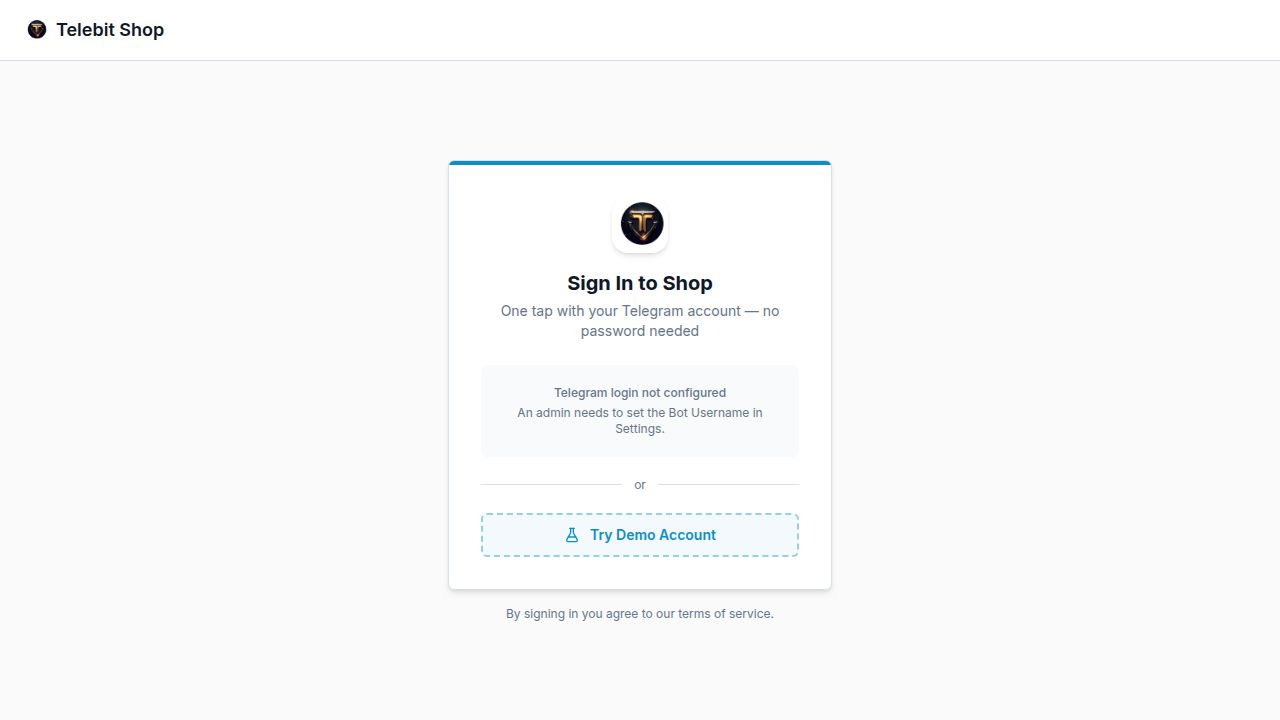
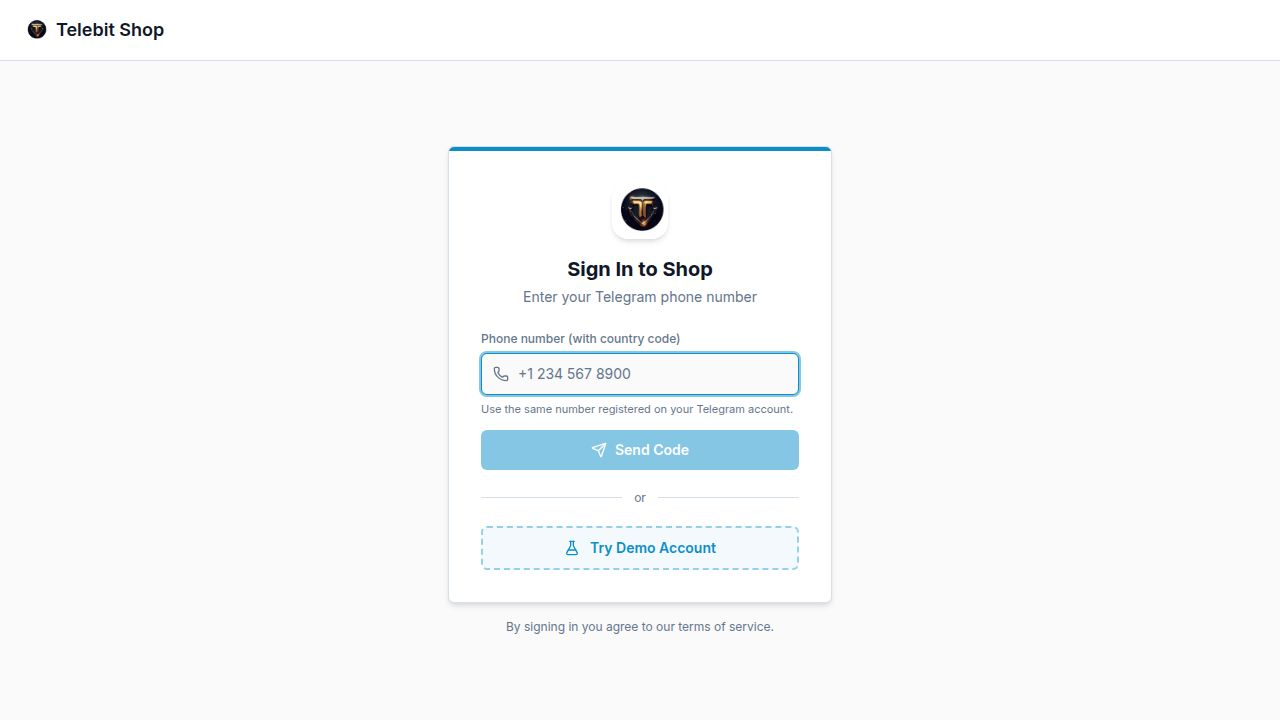
Enable sequential pool unlocking and update pool display
Implement backend logic to automatically unlock the next NFT pool upon completion of the current one, modify the API to list all pools, and update the frontend to visually indicate locked pool states.

Replit-Commit-Author: Agent
Replit-Commit-Session-Id: 859fa052-89b7-4801-a9a4-e2dcf02e4c4b
Replit-Commit-Checkpoint-Type: full_checkpoint
Replit-Commit-Event-Id: e7c8e063-a2ae-4fd7-8222-75e2f2f0d70a
Replit-Commit-Screenshot-Url: https://storage.googleapis.com/screenshot-production-us-central1/7f81c9e8-18eb-4d8d-b424-c342409516a9/859fa052-89b7-4801-a9a4-e2dcf02e4c4b/9lccCrN
Replit-Helium-Checkpoint-Created: true

Changed region(s): [[0.375, 0.3667, 0.625, 0.6722], [0.375, 0.7028, 0.6562, 0.8861], [0.3438, 0.1833, 0.6562, 0.3361]]

diff --git a/artifacts/shop/src/pages/nft-pools.tsx b/artifacts/shop/src/pages/nft-pools.tsx
@@ -68,34 +68,48 @@ function PoolCard({ pool, onBid }: { pool: NftPoolWithNft; onBid: (p: NftPoolWit
   const poolAmount = parseFloat(pool.poolAmount);
   const poolLimit = parseFloat(pool.poolLimit);
   const pct = poolSize > 0 ? Math.min(100, (poolAmount / poolSize) * 100) : 0;
-  const isFull = poolLimit <= 0;
+  const isLocked = pool.status === "inactive";
+  const isFull = !isLocked && (pool.status === "completed" || poolLimit <= 0);
   const t = getTheme(pool.level);
 
   return (
     <div className={`rounded-2xl border bg-white overflow-hidden transition-all duration-200 ${
-      isFull
-        ? "border-border opacity-60"
-        : `border-border hover:border-primary/30 shadow-sm hover:shadow-md`
+      isLocked
+        ? "border-dashed border-border/60 opacity-50"
+        : isFull
+          ? "border-border opacity-60"
+          : `border-border hover:border-primary/30 shadow-sm hover:shadow-md`
     }`}>
-      {!isFull && <div className={`h-1 w-full bg-gradient-to-r ${t.bar}`} />}
+      {!isFull && !isLocked && <div className={`h-1 w-full bg-gradient-to-r ${t.bar}`} />}
       <div className="p-5">
         {/* Header */}
         <div className="flex items-start justify-between mb-4">
           <div className="flex items-center gap-3">
-            <div className={`w-10 h-10 rounded-xl bg-gradient-to-br ${t.bar} flex items-center justify-center shadow-sm`}>
-              <span className="text-white font-black text-sm">L{pool.level}</span>
+            <div className={`w-10 h-10 rounded-xl flex items-center justify-center shadow-sm ${
+              isLocked ? "bg-muted" : `bg-gradient-to-br ${t.bar}`
+            }`}>
+              {isLocked
+                ? <Lock className="h-4 w-4 text-muted-foreground" />
+                : <span className="text-white font-black text-sm">L{pool.level}</span>
+              }
             </div>
             <div>
-              <p className={`font-bold text-base leading-tight ${isFull ? "text-muted-foreground" : ""}`}>
-                {pool.nft.title}
+              <p className={`font-bold text-base leading-tight ${isLocked || isFull ? "text-muted-foreground" : ""}`}>
+                {isLocked ? `Level ${pool.level} Pool` : pool.nft.title}
               </p>
-              <p className="text-xs text-muted-foreground mt-0.5">Level {pool.level} Pool</p>
+              <p className="text-xs text-muted-foreground mt-0.5">
+                {isLocked ? "Unlocks when previous pool fills" : `Level ${pool.level} Pool`}
+              </p>
             </div>
           </div>
           <span className={`text-[10px] font-semibold px-2.5 py-1 rounded-full border ${
-            isFull ? "bg-muted text-muted-foreground border-border" : t.badge
+            isLocked
+              ? "bg-muted/60 text-muted-foreground border-border"
+              : isFull
+                ? "bg-muted text-muted-foreground border-border"
+                : t.badge
           }`}>
-            {isFull ? "● Closed" : "● Open"}
+            {isLocked ? "🔒 Locked" : isFull ? "● Closed" : "● Open"}
           </span>
         </div>
 
@@ -103,12 +117,14 @@ function PoolCard({ pool, onBid }: { pool: NftPoolWithNft; onBid: (p: NftPoolWit
         <div className="mb-4">
           <div className="flex justify-between items-center mb-2">
             <span className="text-[11px] text-muted-foreground font-medium">Pool filled</span>
-            <span className="text-[11px] font-bold tabular-nums">{pct.toFixed(1)}%</span>
+            <span className="text-[11px] font-bold tabular-nums">{isLocked ? "—" : `${pct.toFixed(1)}%`}</span>
           </div>
           <div className="h-2 bg-muted/60 rounded-full overflow-hidden">
             <div
-              className={`h-full rounded-full bg-gradient-to-r transition-all duration-700 ${isFull ? "from-muted-foreground to-muted-foreground" : t.bar}`}
-              style={{ width: `${pct}%` }}
+              className={`h-full rounded-full bg-gradient-to-r transition-all duration-700 ${
+                isLocked ? "" : isFull ? "from-muted-foreground to-muted-foreground" : t.bar
+              }`}
+              style={{ width: isLocked ? "0%" : `${pct}%` }}
             />
           </div>
         </div>
@@ -125,15 +141,19 @@ function PoolCard({ pool, onBid }: { pool: NftPoolWithNft; onBid: (p: NftPoolWit
               {parseFloat(pool.dailyYield) > 0 ? `${parseFloat(pool.dailyYield)}%` : "—"}
             </p>
           </div>
-          <div className={`rounded-xl p-2.5 text-center ${isFull ? "bg-muted/40" : "bg-emerald-50 border border-emerald-100"}`}>
+          <div className={`rounded-xl p-2.5 text-center ${isLocked || isFull ? "bg-muted/40" : "bg-emerald-50 border border-emerald-100"}`}>
             <p className="text-[9px] text-muted-foreground uppercase font-semibold tracking-wide">Left</p>
-            <p className={`font-bold text-sm mt-0.5 ${isFull ? "text-muted-foreground" : "text-emerald-600"}`}>
-              ${fmtUsdt(pool.poolLimit)}
+            <p className={`font-bold text-sm mt-0.5 ${isLocked || isFull ? "text-muted-foreground" : "text-emerald-600"}`}>
+              {isLocked ? "—" : `$${fmtUsdt(pool.poolLimit)}`}
             </p>
           </div>
         </div>
 
-        {isFull ? (
+        {isLocked ? (
+          <div className="h-11 rounded-xl flex items-center justify-center gap-2 bg-muted/40 text-muted-foreground text-sm font-medium border border-dashed border-border/60">
+            <Lock className="h-4 w-4" />Unlocks Next
+          </div>
+        ) : isFull ? (
           <div className="h-11 rounded-xl flex items-center justify-center gap-2 bg-muted/40 text-muted-foreground text-sm font-medium">
             <Lock className="h-4 w-4" />Pool Closed
           </div>
@@ -285,7 +305,8 @@ export default function NftPoolsPage() {
 
   const allPools = (pools as NftPoolWithNft[] | undefined) ?? [];
   const activePools = allPools.filter(p => p.status === "active");
-  const closedPools = allPools.filter(p => p.status !== "active");
+  const closedPools = allPools.filter(p => p.status === "completed");
+  const lockedPools = allPools.filter(p => p.status === "inactive");
   const hasAnyReal = allPools.length > 0;
 
   return (
@@ -335,9 +356,17 @@ export default function NftPoolsPage() {
                 ))}
               </div>
             )}
+            {lockedPools.length > 0 && (
+              <div className="space-y-4">
+                <p className="text-[11px] font-bold text-muted-foreground uppercase tracking-widest">Coming Soon</p>
+                {lockedPools.map(pool => (
+                  <PoolCard key={pool.id} pool={pool} onBid={() => {}} />
+                ))}
+              </div>
+            )}
             {closedPools.length > 0 && (
               <div className="space-y-4">
-                <p className="text-[11px] font-bold text-muted-foreground uppercase tracking-widest">Closed Pools</p>
+                <p className="text-[11px] font-bold text-muted-foreground uppercase tracking-widest">Completed Pools</p>
                 {closedPools.map(pool => (
                   <PoolCard key={pool.id} pool={pool} onBid={() => {}} />
                 ))}

diff --git a/artifacts/api-server/src/routes/nft.ts b/artifacts/api-server/src/routes/nft.ts
@@ -359,9 +359,8 @@ router.get("/nft/pools", requireAuth, async (req, res): Promise<void> => {
     })
     .from(nftPoolsTable)
     .innerJoin(nftsTable, eq(nftPoolsTable.nftId, nftsTable.id))
-    .where(
-      and(eq(nftPoolsTable.status, "active"), eq(nftsTable.status, "active"))
-    );
+    .where(eq(nftsTable.status, "active"))
+    .orderBy(nftPoolsTable.level);
 
   const poolIds = pools.map((r) => r.pool.id);
   const userBids =
@@ -526,6 +525,20 @@ router.post("/nft/pools/:poolId/bid", requireAuth, async (req, res): Promise<voi
       ...(newPoolLimit <= 0 ? { status: "completed" } : {}),
     } as any)
     .where(eq(nftPoolsTable.id, poolId));
+
+  // Auto-unlock the next level pool when this one fills
+  if (isPoolFull) {
+    await db
+      .update(nftPoolsTable)
+      .set({ status: "active" } as any)
+      .where(
+        and(
+          eq(nftPoolsTable.nftId, pool.pool.nftId),
+          eq(nftPoolsTable.level, pool.pool.level + 1),
+          eq(nftPoolsTable.status, "inactive")
+        )
+      );
+  }
 
   await db.insert(nftPoolContributedUsersTable).values({
     poolId,